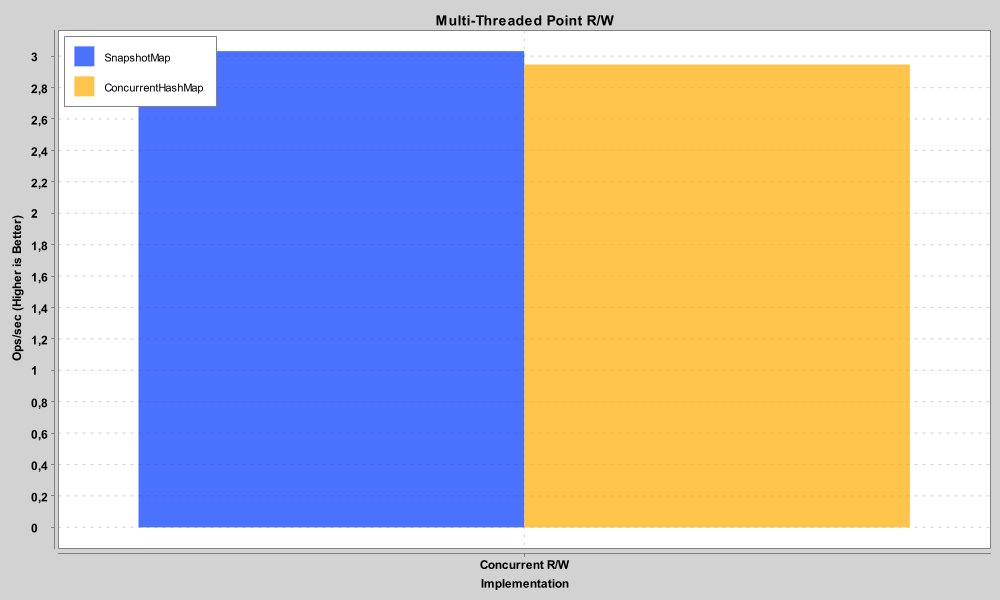
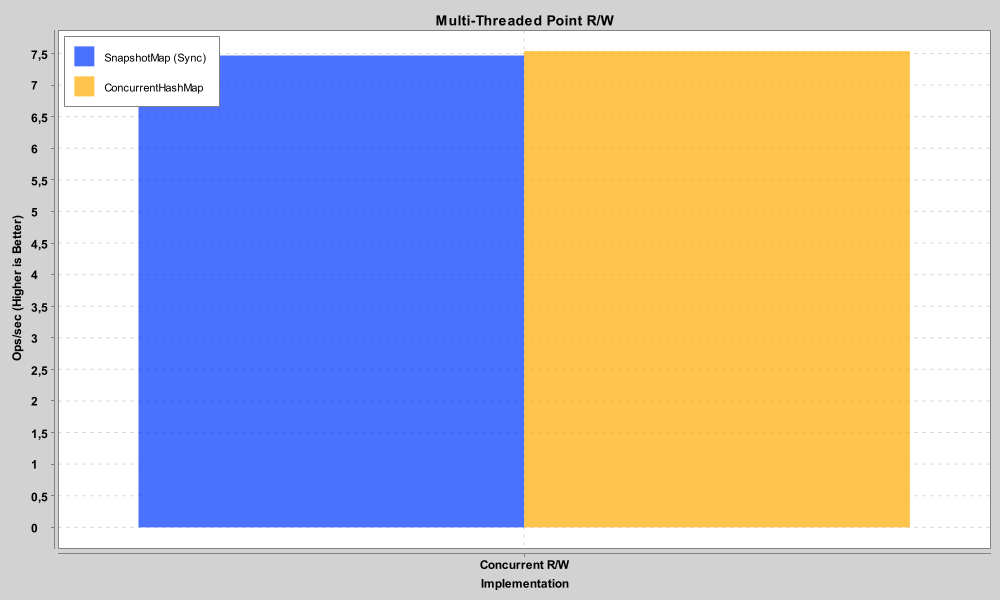
Add `SuspendingSnapshotMap`, coroutines support, and benchmarks
- Introduced `SuspendingSnapshotMap` with non-blocking iteration using `Mutex` for coroutine environments.
- Expanded JMH benchmarks to include `SuspendingSnapshotMap`, ensuring comprehensive coverage of both synchronous and coroutine use cases.
- Updated benchmark results and charts (`rw_results.png`, `scalability_results.png`, `single_iter_results.png`, `single_read_results.png`) to reflect the new implementation.
- Enhanced README with detailed documentation on coroutine support, usage guidance, and updated examples.

diff --git a/src/jmh/kotlin/gg/aquatic/snapshotmap/SnapshotMapBenchmark.kt b/src/jmh/kotlin/gg/aquatic/snapshotmap/SnapshotMapBenchmark.kt
@@ -1,10 +1,14 @@
 package gg.aquatic.snapshotmap
 
+import kotlinx.coroutines.CoroutineScope
+import kotlinx.coroutines.cancel
+import kotlinx.coroutines.runBlocking
 import org.openjdk.jmh.annotations.*
 import org.openjdk.jmh.infra.Blackhole
 import java.util.concurrent.ConcurrentHashMap
 import java.util.concurrent.ThreadLocalRandom
 import java.util.concurrent.TimeUnit
+import kotlin.coroutines.EmptyCoroutineContext
 
 @State(Scope.Benchmark)
 @BenchmarkMode(Mode.Throughput)
@@ -18,23 +22,41 @@ open class SnapshotMapBenchmark {
     var mapSize: Int = 0
 
     private lateinit var snapshotMap: SnapshotMap<Int, Int>
+    private lateinit var suspendingSnapshotMap: SuspendingSnapshotMap<Int, Int>
     private lateinit var concurrentMap: ConcurrentHashMap<Int, Int>
     private lateinit var plainHashMap: HashMap<Int, Int>
 
     @Setup
     fun setup() {
         snapshotMap = SnapshotMap(ConcurrentHashMap(131072))
+        suspendingSnapshotMap = SuspendingSnapshotMap(ConcurrentHashMap(131072))
         concurrentMap = ConcurrentHashMap(131072)
         plainHashMap = HashMap(131072)
 
         for (i in 0 until mapSize) {
             snapshotMap[i] = i
+            suspendingSnapshotMap[i] = i
             concurrentMap[i] = i
             plainHashMap[i] = i
         }
 
-        // Pre-build snapshot to measure "Hot" iteration performance
         snapshotMap.forEach { _, _ -> }
+        runBlocking { suspendingSnapshotMap.forEachSuspended { _, _ -> } }
+    }
+
+    /**
+     * This state is created once per thread, providing a "Native"
+     * coroutine environment for the benchmark methods to use.
+     */
+    @State(Scope.Thread)
+    open class ThreadState {
+        // Empty context is the fastest for benchmarks as it uses the calling thread
+        val scope = CoroutineScope(EmptyCoroutineContext)
+
+        @TearDown
+        fun tearDown() {
+            scope.cancel()
+        }
     }
 
     // --- Single-Threaded Benchmarks ---
@@ -46,39 +68,25 @@ open class SnapshotMapBenchmark {
     fun singleHashMapRead(): Int? = plainHashMap[ThreadLocalRandom.current().nextInt(mapSize)]
 
     @Benchmark
+    fun singleConcurrentMapRead(): Int? = concurrentMap[ThreadLocalRandom.current().nextInt(mapSize)]
+
+    @Benchmark
     fun singleSnapshotIterate(bh: Blackhole) {
         snapshotMap.forEach { k, v -> bh.consume(k); bh.consume(v) }
     }
 
     @Benchmark
+    fun singleSuspendingSnapshotIterate(state: ThreadState, bh: Blackhole) {
+        // Using 'runTest' or 'runBlocking' on a specific context is the direct way.
+        // We use runBlocking here because it's the standard bridge.
+        runBlocking(state.scope.coroutineContext) {
+            suspendingSnapshotMap.forEachSuspended { k, v -> bh.consume(k); bh.consume(v) }
+        }
+    }
+
+    @Benchmark
     fun singleHashMapIterate(bh: Blackhole) {
         plainHashMap.forEach { k, v -> bh.consume(k); bh.consume(v) }
-    }
-
-    // --- Multi-Threaded Point Lookups (Read 4 : Write 1) ---
-
-    @Benchmark
-    @Group("point_snapshot")
-    @GroupThreads(4)
-    fun snapshotRead(): Int? = snapshotMap[ThreadLocalRandom.current().nextInt(mapSize)]
-
-    @Benchmark
-    @Group("point_snapshot")
-    @GroupThreads(1)
-    fun snapshotWrite() {
-        snapshotMap[ThreadLocalRandom.current().nextInt(mapSize)] = 1
-    }
-
-    @Benchmark
-    @Group("point_concurrent")
-    @GroupThreads(4)
-    fun concurrentRead(): Int? = concurrentMap[ThreadLocalRandom.current().nextInt(mapSize)]
-
-    @Benchmark
-    @Group("point_concurrent")
-    @GroupThreads(1)
-    fun concurrentWrite() {
-        concurrentMap[ThreadLocalRandom.current().nextInt(mapSize)] = 1
     }
 
     // --- Scalability: Rare Writes (Iteration Heavy) ---
@@ -96,6 +104,23 @@ open class SnapshotMapBenchmark {
     fun snapshotRareWrite() {
         Thread.sleep(100)
         snapshotMap[ThreadLocalRandom.current().nextInt(mapSize)] = 1
+    }
+
+    @Benchmark
+    @Group("scalability_suspending")
+    @GroupThreads(7)
+    fun suspendingScalability(state: ThreadState, bh: Blackhole) {
+        runBlocking(state.scope.coroutineContext) {
+            suspendingSnapshotMap.forEachSuspended { k, v -> bh.consume(k); bh.consume(v) }
+        }
+    }
+
+    @Benchmark
+    @Group("scalability_suspending")
+    @GroupThreads(1)
+    fun suspendingRareWrite() {
+        Thread.sleep(100)
+        suspendingSnapshotMap[ThreadLocalRandom.current().nextInt(mapSize)] = 1
     }
 
     @Benchmark

diff --git a/src/main/kotlin/gg/aquatic/snapshotmap/SuspendingSnapshotMap.kt b/src/main/kotlin/gg/aquatic/snapshotmap/SuspendingSnapshotMap.kt
@@ -1,0 +1,98 @@
+package gg.aquatic.snapshotmap
+
+import kotlinx.coroutines.sync.Mutex
+import kotlinx.coroutines.sync.withLock
+import java.util.concurrent.ConcurrentHashMap
+
+class SuspendingSnapshotMap<K : Any, V : Any>(
+    @PublishedApi internal val internalMap: ConcurrentHashMap<K, V> = ConcurrentHashMap()
+) : MutableMap<K, V> by internalMap {
+
+    @PublishedApi
+    internal class Snapshot(val keys: Array<Any?>, val values: Array<Any?>, val version: Long)
+
+    @Volatile
+    @PublishedApi
+    internal var snapshot: Snapshot? = null
+
+    @Volatile
+    @PublishedApi
+    internal var version: Long = 0
+
+    @PublishedApi
+    internal val mutex = Mutex()
+
+    private fun invalidate() {
+        version++
+        snapshot = null
+    }
+
+    override fun put(key: K, value: V): V? {
+        val prev = internalMap.put(key, value)
+        if (prev != value) {
+            invalidate()
+        }
+        return prev
+    }
+
+    override fun remove(key: K): V? {
+        val prev = internalMap.remove(key)
+        if (prev != null) {
+            invalidate()
+        }
+        return prev
+    }
+
+    override fun putAll(from: Map<out K, V>) {
+        internalMap.putAll(from)
+        invalidate()
+    }
+
+    override fun clear() {
+        internalMap.clear()
+        invalidate()
+    }
+
+    override fun remove(key: K, value: V): Boolean {
+        return internalMap.remove(key, value).also { if (it) invalidate() }
+    }
+
+    @Suppress("UNCHECKED_CAST")
+    suspend inline fun forEachSuspended(crossinline action: (K, V) -> Unit) {
+        val current = snapshot
+        if (current != null) {
+            val ks = current.keys
+            val vs = current.values
+            for (i in ks.indices) {
+                action(ks[i] as K, vs[i] as V)
+            }
+            return
+        }
+
+        mutex.withLock {
+            val secondCheck = snapshot
+            if (secondCheck != null) {
+                val ks = secondCheck.keys
+                val vs = secondCheck.values
+                for (i in ks.indices) {
+                    action(ks[i] as K, vs[i] as V)
+                }
+                return@withLock
+            }
+
+            val startVersion = version
+            val tempKeys = ArrayList<Any?>(internalMap.size)
+            val tempValues = ArrayList<Any?>(internalMap.size)
+
+            internalMap.forEach { (k, v) ->
+                tempKeys.add(k)
+                tempValues.add(v)
+                action(k, v)
+            }
+
+            if (startVersion == version) {
+                snapshot = Snapshot(tempKeys.toTypedArray(), tempValues.toTypedArray(), startVersion)
+            }
+        }
+    }
+}

diff --git a/src/jmh/kotlin/gg/aquatic/snapshotmap/Chart.kt b/src/jmh/kotlin/gg/aquatic/snapshotmap/Chart.kt
@@ -23,7 +23,7 @@ fun main() {
         BenchmarkData(it.groupValues[1], it.groupValues[2].toDouble())
     }.toList()
 
-    // 1. Single-Threaded Read Comparison (Point Lookup)
+    // 1. Single-Threaded Read Comparison
     val singleReadData = results.filter { it.name.startsWith("single") && it.name.contains("Read") }
     saveComparisonChart("Single-Threaded Read Performance", "single_read_results", singleReadData, "Point Read")
 
@@ -55,15 +55,16 @@ fun saveComparisonChart(title: String, fileName: String, data: List<BenchmarkDat
     chart.styler.legendPosition = Styler.LegendPosition.InsideNW
     chart.styler.isOverlapped = false
 
-    val snapshotScore = data.filter { it.name.contains("snapshot", true) }.sumOf { it.score }
+    // Identify scores for different implementations
+    val syncScore = data.filter { it.name.contains("snapshot", true) && !it.name.contains("suspending", true) }.sumOf { it.score }
+    val mutexScore = data.filter { it.name.contains("suspending", true) }.sumOf { it.score }
     val concurrentScore = data.filter { it.name.contains("concurrent", true) }.sumOf { it.score }
     val hashMapScore = data.filter { it.name.contains("HashMap", true) }.sumOf { it.score }
-    val syncScore = data.filter { it.name.contains("synchronized", true) }.sumOf { it.score }
 
-    chart.addSeries("SnapshotMap", listOf(categoryName), listOf(snapshotScore))
+    if (syncScore > 0) chart.addSeries("SnapshotMap (Sync)", listOf(categoryName), listOf(syncScore))
+    if (mutexScore > 0) chart.addSeries("SnapshotMap (Mutex)", listOf(categoryName), listOf(mutexScore))
     if (concurrentScore > 0) chart.addSeries("ConcurrentHashMap", listOf(categoryName), listOf(concurrentScore))
     if (hashMapScore > 0) chart.addSeries("Plain HashMap", listOf(categoryName), listOf(hashMapScore))
-    if (syncScore > 0) chart.addSeries("Synchronized HashMap", listOf(categoryName), listOf(syncScore))
 
     BitmapEncoder.saveBitmap(chart, "./$fileName", BitmapEncoder.BitmapFormat.PNG)
     println("Generated $fileName.png")

diff --git a/README.md b/README.md
@@ -20,12 +20,18 @@ outperforms standard `ConcurrentHashMap`.
   abstraction.
 - **Smart Invalidation:** Snapshots are lazily rebuilt only when data actually changes, preventing redundant work during
   frequent "no-op" writes.
+- **Coroutine Friendly:** Includes `SuspendingSnapshotMap` using `Mutex` for non-blocking iteration in asynchronous environments.
 
 ---
 
 ## When to use SnapshotMap
 
 `SnapshotMap` is a specialized tool. It is not a 1:1 replacement for `ConcurrentHashMap` in every scenario.
+
+### 💡 Which implementation to choose?
+
+*   **`SnapshotMap`**: Use this for standard threaded applications. It uses `synchronized` for snapshot rebuilding, which is highly optimized by the JVM.
+*   **`SuspendingSnapshotMap`**: Use this in **Kotlin Coroutines** (e.g., Ktor, Quarkus). It uses a `Mutex`, ensuring that threads are never blocked during a snapshot rebuild, keeping your event loop responsive.
 
 ### ✅ Use SnapshotMap when:
 
@@ -52,8 +58,7 @@ In our JMH tests with 100,000 items, `SnapshotMap` demonstrates superior scalabi
 ### 1. Iteration Scalability (The "Win")
 
 *Measured with 7 threads iterating and 1 thread performing occasional writes (100ms interval).*
-Once the snapshot is cached, **SnapshotMap is ~2.5x faster** than `ConcurrentHashMap` due to its flat-array memory
-layout.
+Once the snapshot is cached, **SnapshotMap is ~2.5x faster** than `ConcurrentHashMap`. The `SuspendingSnapshotMap` performs nearly identically to the synchronous version thanks to `inline` optimization.
 
 ![Iteration Scalability](scalability_results.png)
 
@@ -91,24 +96,30 @@ dependencies {
 }
 ````
 
-### Basic Example
+### Basic Example (Blocking)
 
 ```kotlin
 // Wraps any ConcurrentHashMap (defaults to a new one)
 val map = SnapshotMap<String, Int>()
 
-// Set and Get (Standard ConcurrentHashMap performance)
-map["Apple"] = 10
-val count = map["Apple"]
-
 // High-Performance Iteration (Snapshot optimized)
 map.forEach { key, value ->
-// This uses a cached Array<Any?> internally
     println("$key -> $value")
 }
+```
 
-// Batch updates (Optimized to only invalidate snapshot once)
-map.putAll(mapOf("Banana" to 5, "Orange" to 8))
+### Coroutine Example (Non-Blocking)
+
+```kotlin
+val map = SuspendingSnapshotMap<String, Int>()
+
+// Inside a coroutine scope
+suspend fun processData() {
+    // Non-blocking iteration using Mutex
+    map.forEachSuspended { key, value ->
+        println("Processing $key")
+    }
+}
 ```
 
 ---
